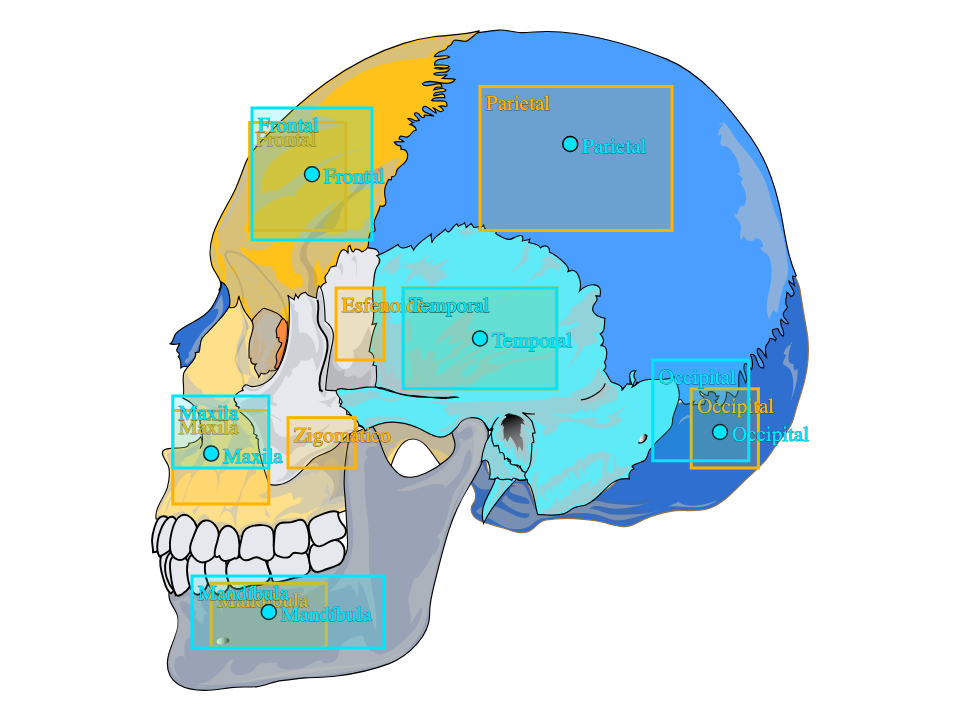
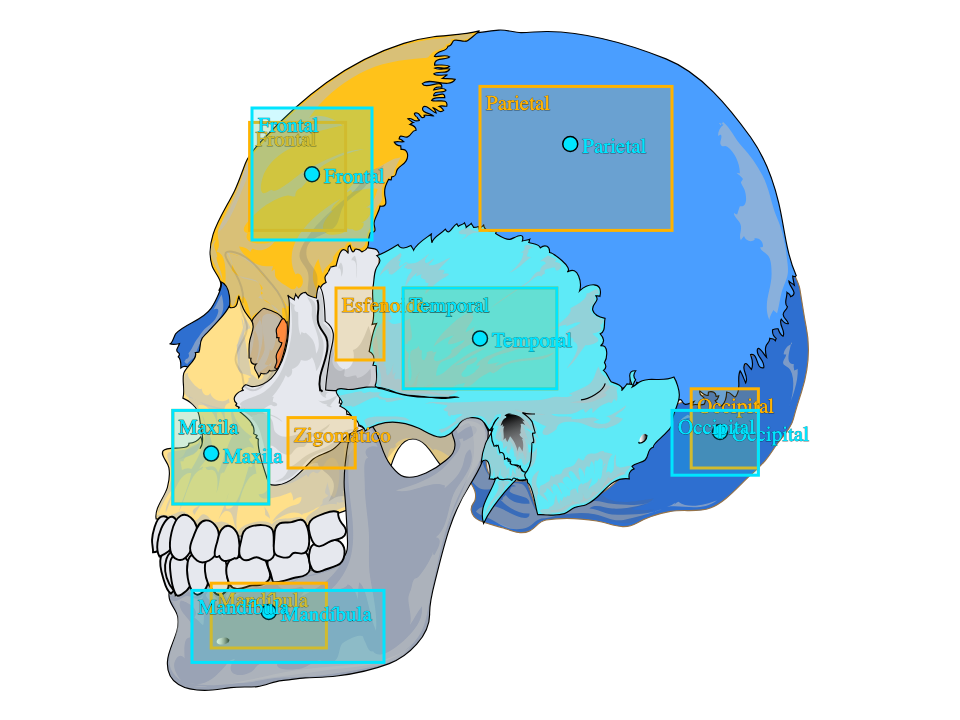
fix(figuras): regras do registro de origem, guarda do alvo no lote, arquivo de alvos validado e hotspots da M25.01 sobre o osso

diff --git a/radiant-app/src/features/student-checkpoints/batches/rtg-2026-m25.ts b/radiant-app/src/features/student-checkpoints/batches/rtg-2026-m25.ts
@@ -6,7 +6,7 @@ export const RTG_2026_M25: ProductionBatchV1 = {
   "schemaVersion": 1,
   "state": "promoted",
   "batchId": "batch:rtg-2026:m25",
[2 lines of base64/hex data omitted]
   "trackId": "track:rtg-2026:m25",
   "unitId": "unit:rtg-2026:m25",
   "contentVersion": "rtg-2026-m25-v1",
@@ -388,23 +388,23 @@ export const RTG_2026_M25: ProductionBatchV1 = {
                   "id": "region:rtg-2026:m25:aula-01:i4:2",
                   "label": "Maxila",
                   "x": 0.18,
-                  "y": 0.55,
+                  "y": 0.57,
                   "width": 0.1,
-                  "height": 0.1
+                  "height": 0.13
                 },
                 {
                   "id": "region:rtg-2026:m25:aula-01:i4:3",
                   "label": "Occipital",
-                  "x": 0.68,
-                  "y": 0.5,
-                  "width": 0.1,
-                  "height": 0.14
+                  "x": 0.7,
+                  "y": 0.57,
+                  "width": 0.09,
+                  "height": 0.09
                 },
                 {
                   "id": "region:rtg-2026:m25:aula-01:i4:4",
                   "label": "Mandíbula",
                   "x": 0.2,
-                  "y": 0.8,
+                  "y": 0.82,
                   "width": 0.2,
                   "height": 0.1
                 },
@@ -6803,7 +6803,7 @@ export const RTG_2026_M25: ProductionBatchV1 = {
       "reviewerRole": "ai-review-delegated",
       "reviewerRef": "claude-fable-5.1:ADR-2026-11-05",
       "decidedAt": "2026-11-06T00:00:00.000Z",
[2 lines of base64/hex data omitted]
     },
     {
       "schemaVersion": 1,
@@ -6812,7 +6812,7 @@ export const RTG_2026_M25: ProductionBatchV1 = {
       "reviewerRole": "ai-review-delegated",
       "reviewerRef": "claude-fable-5.1:ADR-2026-11-05",
       "decidedAt": "2026-11-06T00:00:00.000Z",
[2 lines of base64/hex data omitted]
     },
     {
       "schemaVersion": 1,
@@ -6821,7 +6821,7 @@ export const RTG_2026_M25: ProductionBatchV1 = {
       "reviewerRole": "ai-review-delegated",
       "reviewerRef": "claude-fable-5.1:ADR-2026-11-05",
       "decidedAt": "2026-11-06T00:00:00.000Z",
[2 lines of base64/hex data omitted]
     },
     {
       "schemaVersion": 1,
@@ -6830,7 +6830,7 @@ export const RTG_2026_M25: ProductionBatchV1 = {
       "reviewerRole": "ai-review-delegated",
       "reviewerRef": "claude-fable-5.1:ADR-2026-11-05",
       "decidedAt": "2026-11-06T00:00:00.000Z",
[2 lines of base64/hex data omitted]
     },
     {
       "schemaVersion": 1,
@@ -6839,7 +6839,7 @@ export const RTG_2026_M25: ProductionBatchV1 = {
       "reviewerRole": "ai-review-delegated",
       "reviewerRef": "claude-fable-5.1:ADR-2026-11-05",
       "decidedAt": "2026-11-06T00:00:00.000Z",
[2 lines of base64/hex data omitted]
     },
     {
       "schemaVersion": 1,
@@ -6848,7 +6848,7 @@ export const RTG_2026_M25: ProductionBatchV1 = {
       "reviewerRole": "ai-review-delegated",
       "reviewerRef": "claude-fable-5.1:ADR-2026-11-05",
       "decidedAt": "2026-11-06T00:00:00.000Z",
[2 lines of base64/hex data omitted]
     }
   ],
   "promotedAt": "2026-11-06T00:00:00.000Z",

diff --git a/radiant-app/src/features/student-checkpoints/batches/RtgCatalog.test.ts b/radiant-app/src/features/student-checkpoints/batches/RtgCatalog.test.ts
@@ -54,6 +54,21 @@ describe('índice gerado da trilha rtg-2026', () => {
         expect(positions).toEqual([...positions].sort((a, b) => a - b));
     });
 
+    // `alvo` liga a aula à figura só no verificador; no app seria dado morto (e vazaria o nome da região).
+    it('nenhum lote gerado carrega a chave alvo em ponto ou região', () => {
+        const found: string[] = [];
+        const walk = (node: unknown, at: string): void => {
+            if (Array.isArray(node)) { node.forEach((item, index) => walk(item, `${at}[${index}]`)); return; }
+            if (!node || typeof node !== 'object') return;
+            for (const [key, value] of Object.entries(node)) {
+                if (key === 'alvo') found.push(at);
+                walk(value, `${at}.${key}`);
+            }
+        };
+        RTG_2026_BATCHES.forEach(batch => walk(batch, batch.batchId));
+        expect(found).toEqual([]);
+    });
+
     it('cada lote gerado passa na mesma validação do lote promovido e tem apresentação', () => {
         for (const batch of RTG_2026_BATCHES) {
             expect({ batchId: batch.batchId, issues: validatePromotedProductionBatch(batch) }).toEqual({ batchId: batch.batchId, issues: [] });

diff --git a/radiant-app/src/features/student-checkpoints/batches/rtgImages.ts b/radiant-app/src/features/student-checkpoints/batches/rtgImages.ts
@@ -93,11 +93,12 @@ export const RTG_IMAGES: readonly RtgImageCredit[] = [
 ];
 
 /** Crédito da arte de terceiros das figuras desenhadas (registro: content-manifest/rtg-2026/figuras.json). */
-export type RtgFigureCredit = Readonly<{ id: string; author: string; license: string; licenseUrl: string; sourcePage: string; modification: string }>;
+export type RtgFigureCredit = Readonly<{ id: string; alt: string; author: string; license: string; licenseUrl: string; sourcePage: string; modification: string }>;
 
 export const RTG_FIGURE_CREDITS: readonly RtgFigureCredit[] = [
   {
     "id": "cranio-de-perfil-ossos",
+    "alt": "Crânio de perfil com a face para a esquerda: ossos da calota, da base lateral e da face em cores diferentes, com as suturas entre eles.",
     "author": "LadyofHats (Mariana Ruiz Villarreal)",
     "license": "Domínio público",
     "licenseUrl": "https://commons.wikimedia.org/wiki/Commons:Licensing#Public_domain",

diff --git a/radiant-app/src/ui/diagrams/diagramRegistry.test.ts b/radiant-app/src/ui/diagrams/diagramRegistry.test.ts
@@ -93,6 +93,8 @@ describe('registro de diagramas', () => {
 
   it('toda figura importada tem entrada em figuras.json, e toda entrada importada aponta para uma figura que existe', () => {
     expect(IMPORTED_IDS.filter((id) => !figuras.some((entry) => entry.id === id))).toEqual([]);
+    // Arte importada declarada como "codigo" escaparia da régua de licença e do crédito.
+    expect(IMPORTED_IDS.filter((id) => !['acervo', 'anatomy', 'gerada'].includes(figuras.find((entry) => entry.id === id)?.origem ?? ''))).toEqual([]);
     const importedEntries = figuras.filter((entry) => ['acervo', 'anatomy', 'gerada'].includes(entry.origem));
     expect(importedEntries.filter((entry) => !IMPORTED_IDS.includes(entry.id)).map((entry) => entry.id)).toEqual([]);
   });

diff --git a/radiant-app/src/features/settings/screens/ImageCreditsScreen.tsx b/radiant-app/src/features/settings/screens/ImageCreditsScreen.tsx
@@ -31,6 +31,7 @@ export default function ImageCreditsScreen(): React.ReactElement {
       </View>)}
       {RTG_FIGURE_CREDITS.map((figure, index) => <View key={figure.id} style={styles.card}>
         <Text style={styles.name}>Ilustração {index + 1}</Text>
+        <Text style={styles.detail}>{figure.alt}</Text>
         <Text style={styles.detail}>Autoria: {figure.author}</Text>
         <Text style={styles.detail}>Licença: {figure.license}</Text>
         <Text style={styles.detail}>Modificação: {figure.modification}</Text>
